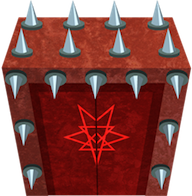
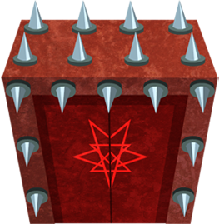
doors updated

diff --git a/core/src/com/gameoff/game/managers/LevelManager.java b/core/src/com/gameoff/game/managers/LevelManager.java
@@ -266,8 +266,11 @@ public class LevelManager extends StateManager {
 			System.out.println("LevelManager::init door[" + dir + "]=" + dc);
 			int rot = -90 * dir;
 			// change below to getSize of sprite somehow
-			float dw = 230;
+			float dw = 219;
 			float dh = 224;
+			float topOff = 32;
+			float topSize = dh-topOff;
+			float doorBorder = 36;
 
 			float x = m_roomWidthPixels / 2 - dw / 2;
 			float y = m_roomHeightPixels - dh;
@@ -279,17 +282,24 @@ public class LevelManager extends StateManager {
 				d.setRotation(rot);
 				playground.addGameObject(d, null);
 
+				ForegroundObject o = new ForegroundObject();
+				o.setSprite("door_over");
+				o.setName("DoorOver" + dir);
+				o.setSize(dw, dh);
+				o.setRotation(rot);
+				playground.addGameObject(o, null);
+
 				if (dir == 2) {
 					// down
 
 					Wall t1 = new Wall();
-					t1.setSize(x, dh);
+					t1.setSize(x+doorBorder, dh);
 					t1.setPosition(0, 0);
 					playground.addGameObject(t1, null);
 
 					Wall t2 = new Wall();
-					t2.setSize(x, dh);
-					t2.setPosition(x + dw, 0);
+					t2.setSize(x+doorBorder, dh);
+					t2.setPosition(x + dw - doorBorder, 0);
 					playground.addGameObject(t2, null);
 
 					// rotated 180
@@ -301,18 +311,18 @@ public class LevelManager extends StateManager {
 					x = m_roomWidthPixels - dh;
 
 					Wall t1 = new Wall();
-					t1.setSize(dh, y);
+					t1.setSize(dh, y+doorBorder);
 					t1.setPosition(x, 0);
 					playground.addGameObject(t1, null);
 
 					Wall t2 = new Wall();
-					t2.setSize(dh, y);
-					t2.setPosition(x, y + dw);
+					t2.setSize(dh, y + doorBorder);
+					t2.setPosition(x, y + dw-doorBorder);
 					playground.addGameObject(t2, null);
 
 					// adjust for rotation
 					x -= (dw / 2 - dh / 2);
-					y += dw / 2;
+					//y += dw / 2;
 
 				} else if (dir == 3) {
 					// left door
@@ -320,32 +330,34 @@ public class LevelManager extends StateManager {
 					x = 0;
 
 					Wall t1 = new Wall();
-					t1.setSize(dh, y);
+					t1.setSize(dh, y + doorBorder);
 					t1.setPosition(0, 0);
 					playground.addGameObject(t1, null);
 
 					Wall t2 = new Wall();
-					t2.setSize(dh, y);
-					t2.setPosition(0, y + dw);
+					t2.setSize(dh, y + doorBorder);
+					t2.setPosition(0, y + dw - doorBorder);
 					playground.addGameObject(t2, null);
 
 					// rotation adjustment
 					x -= (dw / 2 - dh / 2);
-					y += dw / 2;
+					//y += dw / 2;
 
 				} else {
 					// top
 					Wall t1 = new Wall();
-					t1.setSize(x, dh);
-					t1.setPosition(0, y);
+					t1.setSize(x + doorBorder, topSize);
+					t1.setPosition(0, y+topOff);
 					playground.addGameObject(t1, null);
 
 					Wall t2 = new Wall();
-					t2.setSize(x, dh);
-					t2.setPosition(x + dw, y);
+					t2.setSize(x+ doorBorder, topSize);
+					t2.setPosition(x + dw - doorBorder, y+topOff);
 					playground.addGameObject(t2, null);
 				}
+
 				d.setPosition(x, y);
+				o.setPosition(x, y);
 
 			} else {
 				// just place full walls
@@ -370,8 +382,8 @@ public class LevelManager extends StateManager {
 				} else {
 					// top
 					Wall t1 = new Wall();
-					t1.setSize(m_roomWidthPixels, dh);
-					t1.setPosition(0, m_roomHeightPixels - dh);
+					t1.setSize(m_roomWidthPixels, topSize);
+					t1.setPosition(0, m_roomHeightPixels - topSize);
 					playground.addGameObject(t1, null);
 				}
 			}

diff --git a/core/src/com/gameoff/game/systems/YSortSystem.java b/core/src/com/gameoff/game/systems/YSortSystem.java
@@ -56,6 +56,11 @@ public class YSortSystem extends LayerSystem{
 				return -1;
 			else if (o2 instanceof BackgroundObject)
 				return 1;
+
+			if (o1 instanceof ForegroundObject)
+				return 1;
+			else if (o2 instanceof ForegroundObject)
+				return -1;
 			
 			if(o1 instanceof TilemapLayerObject) {
 				return -1;

diff --git a/core/src/com/gameoff/game/objects/ForegroundObject.java b/core/src/com/gameoff/game/objects/ForegroundObject.java
@@ -1,0 +1,8 @@
+package com.gameoff.game.objects;
+
+import com.kyperbox.objects.GameObject;
+//always sorted to back in YSortSystem
+public class ForegroundObject extends GameObject{
+  
+
+}
